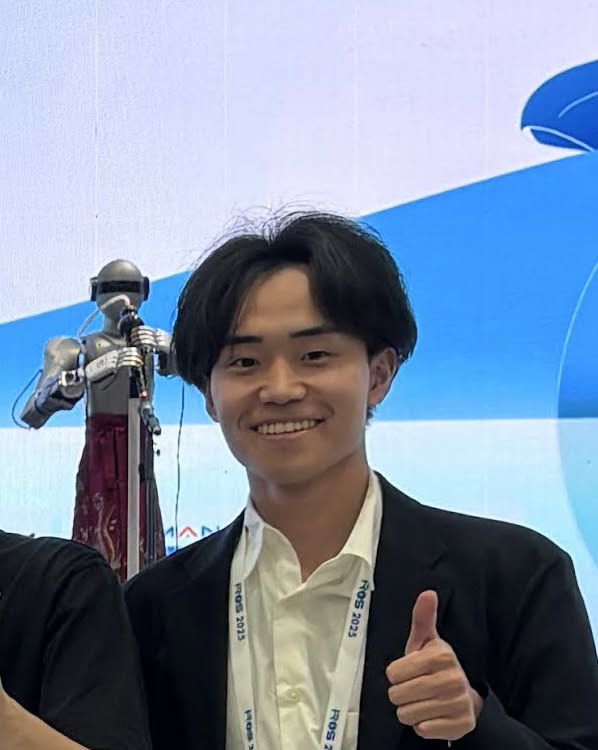
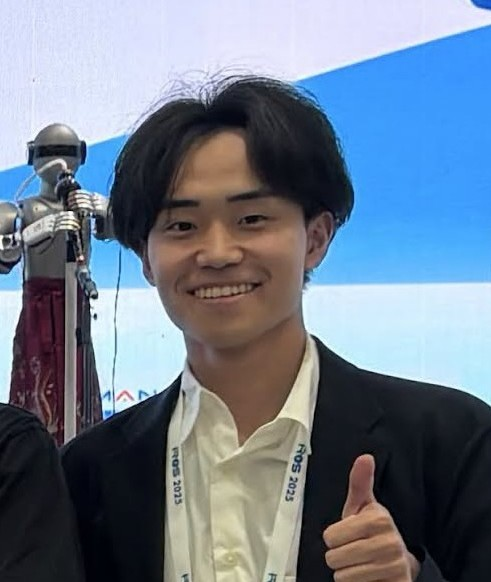
Update profile picture and enhance research descriptions for clarity

diff --git a/index.html b/index.html
@@ -164,8 +164,8 @@
 							</h4>
 
 							<p class="mt-1 justify"
-								data-ja="模倣学習に基づくロボットマニピュレーションの研究を行っています。物体が密集した環境におけるピッキング作業の効率化・自動化を目指し、人間の実演から状況に応じた柔軟な把持戦略を獲得することに取り組んでいます。これまでに、複数物体の同時把持や小型部品のばら積みピッキングに取り組んできました。"
-								data-en="My research focuses on robotic manipulation based on imitation learning, aiming at efficient and automated picking in cluttered environments. I work on acquiring flexible, situation-dependent grasping strategies from human demonstrations. So far, I have worked on simultaneous grasping of multiple objects and bin picking of small parts.">
+								data-ja="模倣学習に基づくロボットマニピュレーションの研究を行っています。物体が密集した環境におけるピッキング作業の効率化・自動化を目指し、人間の実演から状況に応じた柔軟な把持戦略を獲得することに取り組んでいます。これまでに、散乱した物体を押し動作でまとめて同時に把持・運搬する手法を提案してきました。また、ばら積みされた小型部品のピッキングを対象に、押し引きや絡み解消といった人間の把持戦略の学習にも取り組んでいます。"
+								data-en="My research focuses on robotic manipulation based on imitation learning, aiming at efficient and automated picking in cluttered environments. I work on acquiring flexible, situation-dependent grasping strategies from human demonstrations. So far, I have worked on grouping scattered objects by pushing to grasp and deliver them simultaneously, and on learning human grasping strategies, such as pushing aside and untangling, for bin picking of small parts.">
 							</p>
 
 							<h4 id="newsH4" class="mt-2"
@@ -229,8 +229,8 @@
 								data-en="<u>Takahiro Yonemaru</u>, Kosei Yamashita, Weiwei Wan, Kensuke Harada">
 							</p>
 							<p class="mb-0 t-secondary"
-								data-ja="ロボティクス・メカトロニクス講演会2026 (ROBOMECH2026), 1A2-U03, 2026"
-								data-en="The JSME Conference on Robotics and Mechatronics (ROBOMECH2026), 1A2-U03, 2026">
+								data-ja="ロボティクス・メカトロニクス講演会2026 (ROBOMECH2026), 2026"
+								data-en="The JSME Conference on Robotics and Mechatronics (ROBOMECH2026), 2026">
 							</p>
 						</div>
 
